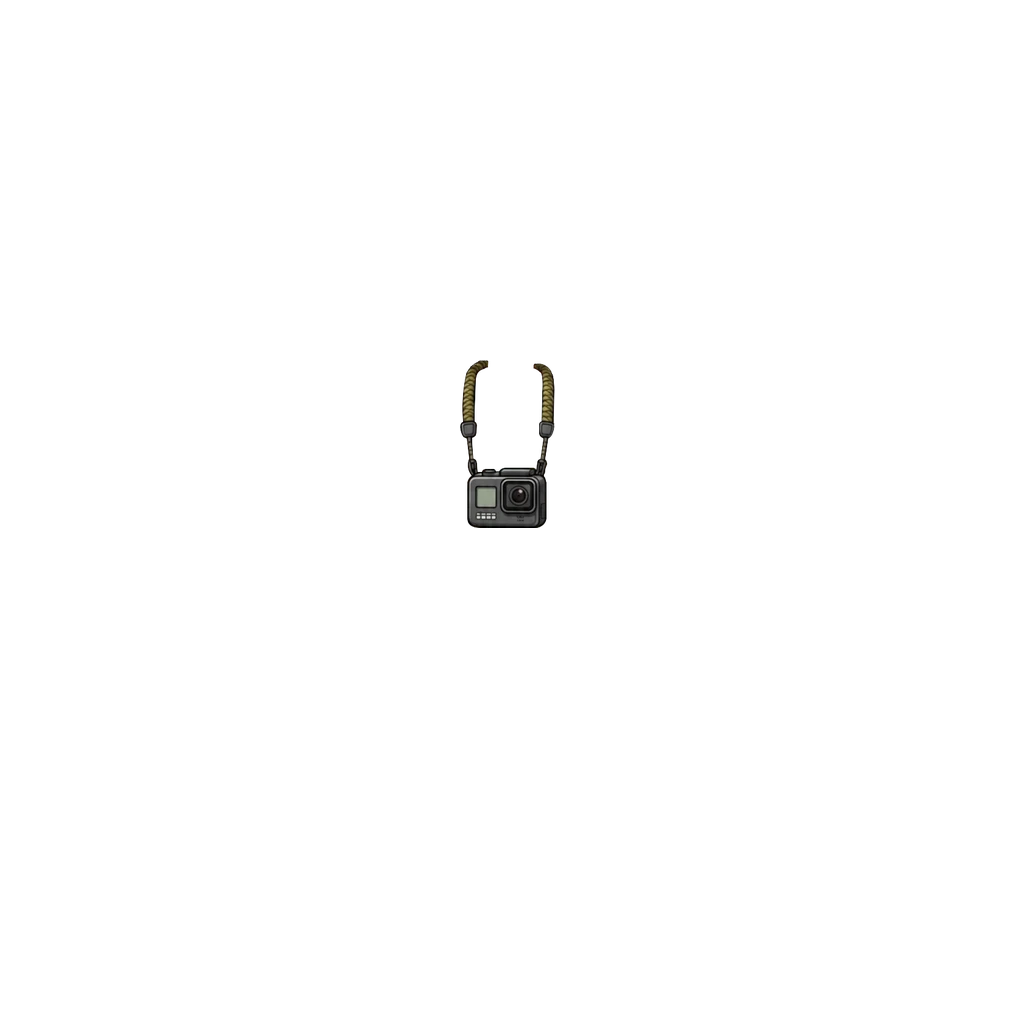
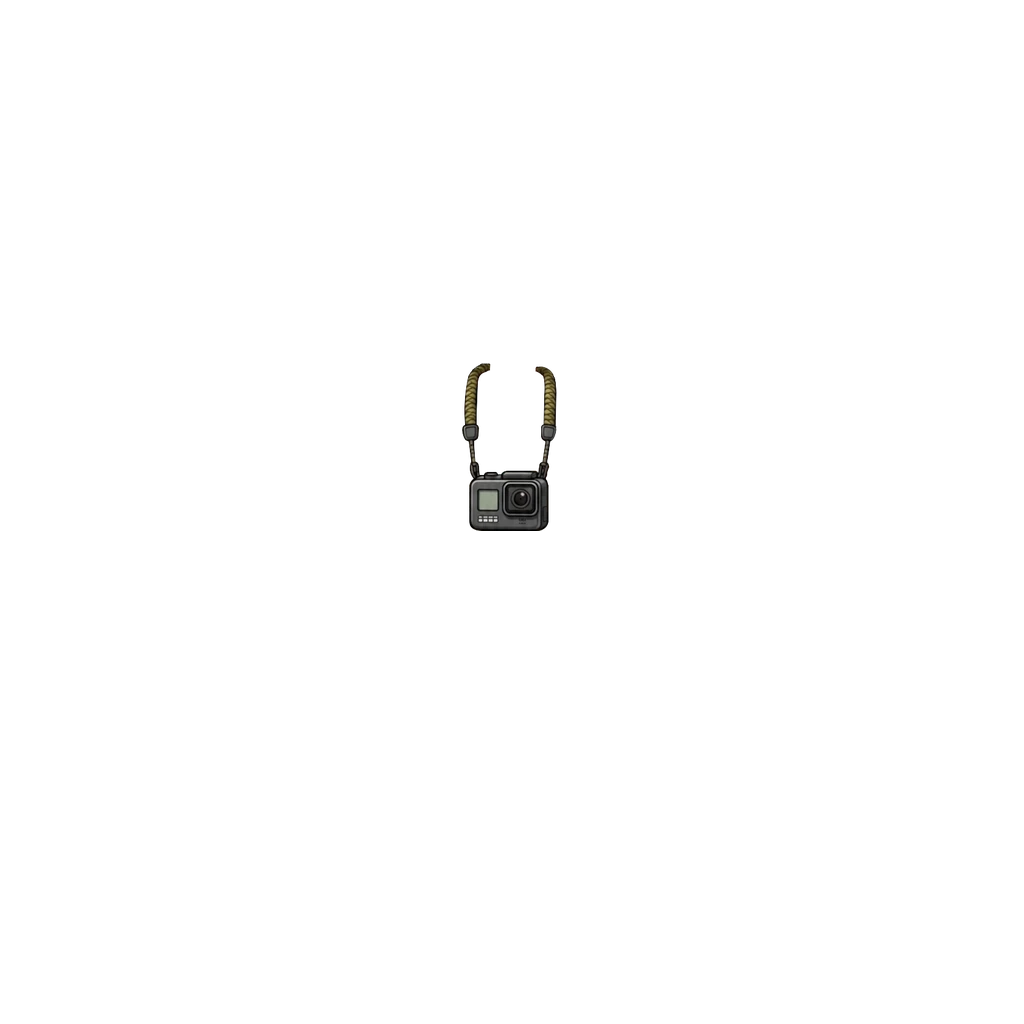
탐험 카메라: 여아만 오른쪽 2·아래로 3 (#906)
여아 그림 위끝 y360→y363, 오른쪽 2. imgGirl ?v=4(남아 그대로).

Claude-Session: https://claude.ai/code/session_018maNuYqDfFyRSe9uKpZhPR

Changed region(s): [[0.4375, 0.3438, 0.5625, 0.5312]]

diff --git a/src/data/avatarEquipment.js b/src/data/avatarEquipment.js
@@ -442,8 +442,9 @@ export const AVATAR_CATALOG = [
      [2026-10-05] 남아만 4% 크게(배율 0.6448, 끈 위끝 y397·가운데 고정). 남아 상자 (463,397,564,575). img ?v=3.
      [2026-10-05] 남아만 2% 더 크게(배율 0.6577). 남아 상자 (462,397,565,579). img ?v=4.
      [2026-10-05] 여아만 왼쪽으로 6·아래로 4(위끝 y360). 여아 상자 (459,360,556,531). imgGirl ?v=2.
-     [2026-10-05] 여아만 2% 작게(배율 0.6076, 끈 위끝·가운데 고정). 여아 상자 (460,360,555,528). imgGirl ?v=3. */
-  { id: "neck_camera",    slot: "neck",  label: "탐험 카메라", emoji: "📷", price:DECOR_PRICE.rare, rarity: "rare", theme: "adventure", img: "assets/avatar/neck/action-camera-boy.webp?v=4", imgGirl: "assets/avatar/neck/action-camera-girl.webp?v=3", thumb: "assets/avatar/thumb/neck_camera.webp" },
+     [2026-10-05] 여아만 2% 작게(배율 0.6076, 끈 위끝·가운데 고정). 여아 상자 (460,360,555,528). imgGirl ?v=3.
+     [2026-10-05] 여아만 오른쪽으로 2·아래로 3(위끝 y363). 여아 상자 (462,363,557,531). imgGirl ?v=4. */
+  { id: "neck_camera",    slot: "neck",  label: "탐험 카메라", emoji: "📷", price:DECOR_PRICE.rare, rarity: "rare", theme: "adventure", img: "assets/avatar/neck/action-camera-boy.webp?v=4", imgGirl: "assets/avatar/neck/action-camera-girl.webp?v=4", thumb: "assets/avatar/thumb/neck_camera.webp" },
   /* ── 우주 세트 (남아) — 사용자 원화 2026-09-29 ────────────────────────────
      우주복(top_space)과 같은 원화 세트에서 나온 가방·신발. 둘 다 남아 전용 첫
      세트 아이템이고(back·shoes 슬롯에 살아 있는 아이템이 이제껏 하나도 없었다),

diff --git a/art-src/README.md b/art-src/README.md
@@ -618,4 +618,4 @@ bbox로 여백만 잘라내고 배포본은 높이 480px로 축소했다(전부 
 | thumb-src-hat_post_girl.webp | **상점 목록 그림 여아 우편부 모자 (hat_post_girl, 사용자 원화 2026-10-04)** — 상점 카드에만 보이는 모자 아이콘(쓰는 그림과 별개). 481×292 투명 배경, 세로 160px 로 줄여 탑재(thumb ?v=2) | avatar/thumb/hat_post_girl.webp |
 | thumb-src-hat_wizard_girl.webp | **상점 목록 그림 여아 마법사 모자 (hat_wizard_girl, 사용자 원화 2026-10-04)** — 상점 카드에만 보이는 모자 아이콘(쓰는 그림과 별개). 490×388 투명 배경, 세로 160px 로 줄여 탑재(thumb ?v=2) | avatar/thumb/hat_wizard_girl.webp |
 | thumb-src-hat_helmet_girl.webp | **상점 목록 그림 여아 우주 헬멧 (hat_helmet_girl, 사용자 원화 2026-10-04)** — 상점 카드에만 보이는 모자 아이콘(쓰는 그림과 별개). 518×415 투명 배경, 세로 160px 로 줄여 탑재(thumb ?v=2) | avatar/thumb/hat_helmet_girl.webp |
-| action-camera-src.webp | **탐험 카메라 원화 남녀 공용 (사용자 원화 2026-10-04)** — 156×276 투명 배경, 검은 액션 카메라 + 카키 끈. 첫 목 장식. 배율 0.62, 끈 가운데를 목 가운데에, 끈 위끝을 목·어깨 만나는 높이(남아 y392·여아 y356)에 맞춰 성별마다 따로 탑재. 남아 상자 (467,392,564,563) · 여아 상자 (465,356,562,527). **[2026-10-05 조정]** 남아만 아래로 5·왼쪽 2, 남아 상자 (465,397,562,568) · img ?v=2. 남아만 4% 크게(0.6448), 상자 (463,397,564,575) · img ?v=3. 남아만 2% 더 크게(0.6577), 상자 (462,397,565,579) · img ?v=4. 여아만 왼쪽 6·아래로 4, 상자 (459,360,556,531) · imgGirl ?v=2. 여아만 2% 작게(0.6076), 상자 (460,360,555,528) · imgGirl ?v=3. 상점 그림은 원화를 세로 160px 로 | avatar/neck/action-camera-boy.webp · action-camera-girl.webp · thumb/neck_camera.webp |
+| action-camera-src.webp | **탐험 카메라 원화 남녀 공용 (사용자 원화 2026-10-04)** — 156×276 투명 배경, 검은 액션 카메라 + 카키 끈. 첫 목 장식. 배율 0.62, 끈 가운데를 목 가운데에, 끈 위끝을 목·어깨 만나는 높이(남아 y392·여아 y356)에 맞춰 성별마다 따로 탑재. 남아 상자 (467,392,564,563) · 여아 상자 (465,356,562,527). **[2026-10-05 조정]** 남아만 아래로 5·왼쪽 2, 남아 상자 (465,397,562,568) · img ?v=2. 남아만 4% 크게(0.6448), 상자 (463,397,564,575) · img ?v=3. 남아만 2% 더 크게(0.6577), 상자 (462,397,565,579) · img ?v=4. 여아만 왼쪽 6·아래로 4, 상자 (459,360,556,531) · imgGirl ?v=2. 여아만 2% 작게(0.6076), 상자 (460,360,555,528) · imgGirl ?v=3. 여아만 오른쪽 2·아래로 3, 상자 (462,363,557,531) · imgGirl ?v=4. 상점 그림은 원화를 세로 160px 로 | avatar/neck/action-camera-boy.webp · action-camera-girl.webp · thumb/neck_camera.webp |
